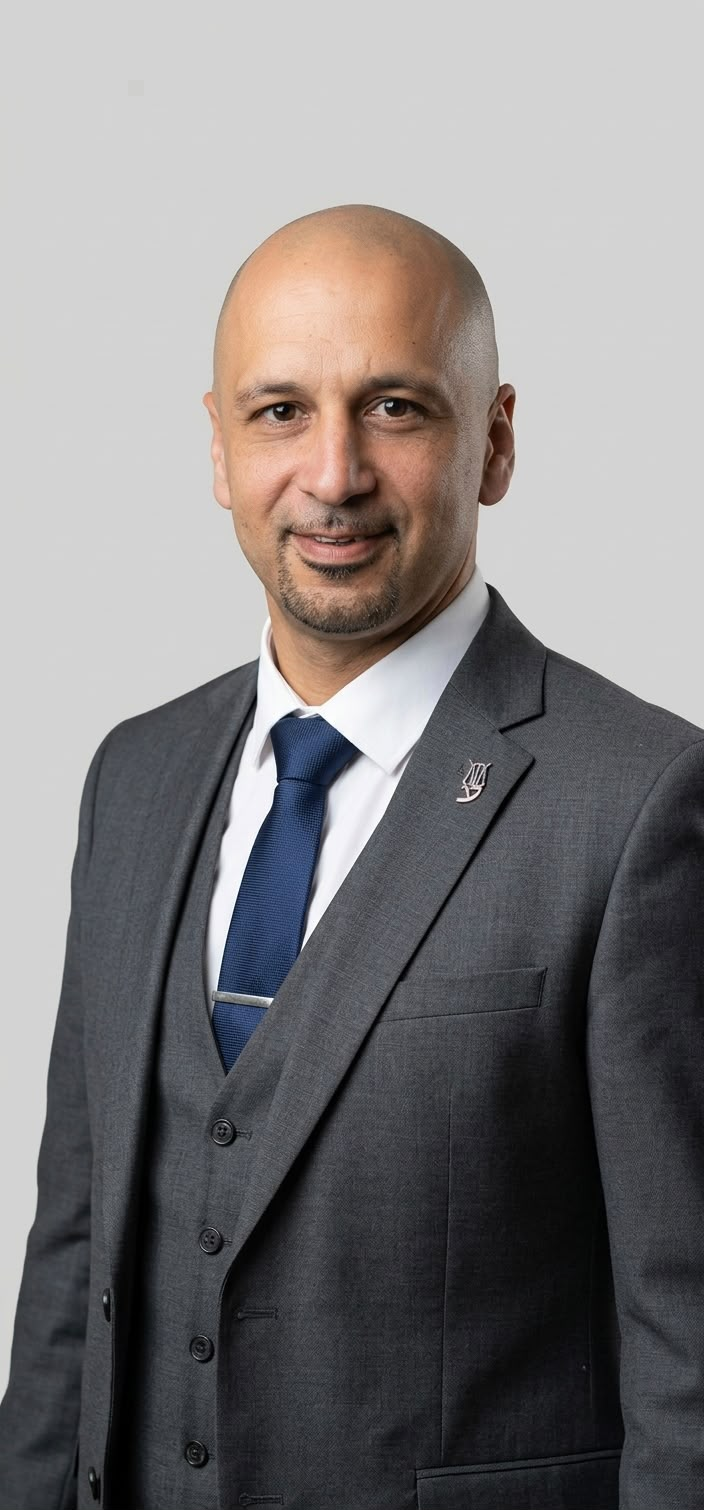
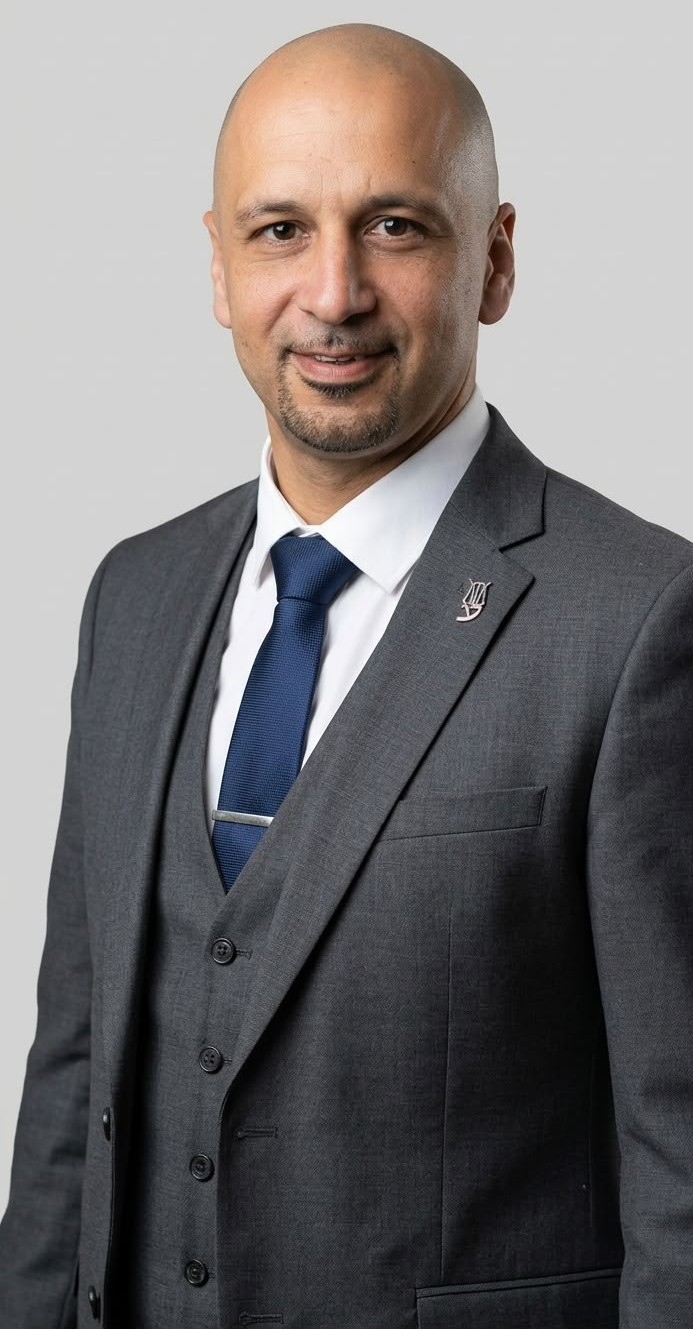
updated

diff --git a/index.html b/index.html
@@ -246,8 +246,11 @@
     display:flex; flex-direction:column; justify-content:flex-end;
     transition:transform .4s var(--ease), box-shadow .4s var(--ease);
     border:1px solid var(--navy);
+    width:100%; font-family:inherit; text-align:right; cursor:pointer; margin:0;
+    -webkit-appearance:none; appearance:none;
   }
   .practice-card:hover{transform:translateY(-6px); box-shadow:var(--shadow-l);}
+  .practice-card:focus-visible{outline:2.5px solid var(--gold); outline-offset:3px;}
   .practice-card.featured{
     grid-column:span 2; grid-row:span 2; min-height:466px;
     background:linear-gradient(150deg, var(--navy) 0%, var(--navy-deep) 100%);
@@ -432,6 +435,56 @@
     transition:transform .3s var(--ease);
   }
   .fab-wa:hover{transform:scale(1.08);}
+
+  /* ============ SERVICE DETAIL MODAL ============ */
+  .modal-overlay{
+    position:fixed; inset:0; z-index:600;
+    background:rgba(10,30,56,0.6); backdrop-filter:blur(4px);
+    display:flex; align-items:center; justify-content:center; padding:24px;
+    opacity:0; visibility:hidden; transition:opacity .3s var(--ease), visibility 0s linear .3s;
+  }
+  .modal-overlay.open{ opacity:1; visibility:visible; transition:opacity .3s var(--ease); }
+  .modal-panel{
+    background:#fff; border-radius:var(--radius-l); width:100%; max-width:660px;
+    max-height:86vh; overflow-y:auto; position:relative;
+    padding:48px 44px 40px; box-shadow:var(--shadow-l);
+    transform:translateY(24px) scale(0.98); transition:transform .35s var(--ease);
+  }
+  .modal-overlay.open .modal-panel{ transform:translateY(0) scale(1); }
+  .modal-close{
+    position:absolute; top:20px; left:20px; width:38px; height:38px; border-radius:50%;
+    border:1px solid var(--stone); background:var(--cream); color:var(--navy);
+    display:flex; align-items:center; justify-content:center; font-size:16px; transition:.25s;
+  }
+  .modal-close:hover{background:var(--navy); color:#fff; border-color:var(--navy);}
+  .modal-icon{
+    width:52px; height:52px; border-radius:12px; background:var(--navy); color:var(--gold-light);
+    display:flex; align-items:center; justify-content:center; margin-bottom:18px;
+  }
+  .modal-panel .eyebrow{margin-bottom:10px;}
+  .modal-panel h3{font-size:clamp(24px,2.6vw,30px); margin-bottom:20px;}
+  .modal-body p{color:var(--ink-soft); font-size:15.5px; margin-bottom:16px;}
+  .modal-body h4{
+    font-family:'Heebo',sans-serif; font-weight:700; font-size:14.5px; color:var(--navy);
+    margin:22px 0 12px;
+  }
+  .modal-body ul{margin-bottom:16px;}
+  .modal-body ul li{
+    position:relative; padding-right:22px; margin-bottom:10px; font-size:15px; color:var(--ink-soft);
+  }
+  .modal-body ul li::before{
+    content:''; position:absolute; right:0; top:8px; width:7px; height:7px; border-radius:50%;
+    background:var(--gold-deep);
+  }
+  .modal-cta{
+    display:flex; gap:12px; flex-wrap:wrap; margin-top:26px; padding-top:26px;
+    border-top:1px solid var(--stone);
+  }
+  @media (max-width:640px){
+    .modal-panel{padding:60px 24px 30px; max-height:90vh;}
+    .modal-cta{flex-direction:column;}
+    .modal-cta .btn{width:100%;}
+  }
 
   @media (max-width: 980px){
     nav.primary{display:none;}
@@ -621,7 +674,7 @@
       <p>עסקאות מקרקעין הן ליבת העשייה שלנו, לצד מגוון שירותים אזרחיים לרגעים החשובים ביותר.</p>
     </div>
     <div class="practice-grid">
-      <a href="#" class="practice-card featured reveal">
+      <button type="button" class="practice-card featured reveal" data-service="realestate">
         <div class="card-art">
           <svg viewBox="0 0 220 180" fill="none" xmlns="http://www.w3.org/2000/svg">
             <rect x="30" y="60" width="160" height="110" rx="2" stroke="#E3CE9E" stroke-width="1.3" opacity="0.85"/>
@@ -634,40 +687,52 @@
           </svg>
         </div>
         <div class="p-ico"><svg width="24" height="24" viewBox="0 0 24 24" fill="none" stroke="currentColor" stroke-width="2"><path d="M21 2l-2 2m-7.61 7.61a5.5 5.5 0 1 1-7.778 7.778 5.5 5.5 0 0 1 7.777-7.777zm0 0L15.5 7.5m0 0l3 3L22 7l-3-3-3.5 3.5zm0 0L19 4"/></svg></div>
-        <h3>מקרקעין</h3>
-        <p>קנייה ומכירה של דירות, עסקאות קרקע, בדיקות טאבו וזכויות, הסכמי שיתוף ופירוק שיתוף, ירושה ומקרקעין, ורישום זכויות, מהצעה ראשונה ועד רישום סופי.</p>
-        <span class="link">לפרטים נוספים על מקרקעין ←</span>
-      </a>
-      <a href="#" class="practice-card reveal">
+        <h3>מקרקעין, תכנון ובנייה</h3>
+        <p>קנייה ומכירה של דירות וקרקעות, בדיקות זכויות וטאבו, היתרי בנייה וחריגות בנייה, הסכמי שיתוף ופירוק שיתוף, ירושה ורישום זכויות, מהצעה ראשונה ועד רישום סופי.</p>
+        <span class="link">לפרטים המלאים על מקרקעין ←</span>
+      </button>
+      <button type="button" class="practice-card reveal" data-service="execution">
         <div class="p-ico"><svg width="20" height="20" viewBox="0 0 24 24" fill="none" stroke="currentColor" stroke-width="2"><rect x="3" y="11" width="18" height="10" rx="1"/><path d="M7 11V7a5 5 0 0 1 10 0v4"/></svg></div>
         <h3>הוצאה לפועל</h3>
-        <p>ייצוג חייבים וזוכים בתיקי הוצאה לפועל.</p>
+        <p>ייצוג זוכים וחייבים: פתיחת תיקים, ביטול עיקולים והגבלות, צווי תשלומים והסדרי חוב.</p>
         <span class="link">למידע נוסף ←</span>
-      </a>
-      <a href="#" class="practice-card reveal">
+      </button>
+      <button type="button" class="practice-card reveal" data-service="bituach">
         <div class="p-ico"><svg width="20" height="20" viewBox="0 0 24 24" fill="none" stroke="currentColor" stroke-width="2"><path d="M12 2L2 7l10 5 10-5-10-5z"/><path d="M2 17l10 5 10-5M2 12l10 5 10-5"/></svg></div>
         <h3>ביטוח לאומי</h3>
-        <p>תביעות וערעורים מול המוסד לביטוח לאומי.</p>
+        <p>תביעות נכות כללית ותאונות עבודה, הכנה לוועדות רפואיות והגשת עררים מול המוסד לביטוח לאומי.</p>
         <span class="link">למידע נוסף ←</span>
-      </a>
-      <a href="#" class="practice-card reveal">
+      </button>
+      <button type="button" class="practice-card reveal" data-service="workaccident">
+        <div class="p-ico"><svg width="20" height="20" viewBox="0 0 24 24" fill="none" stroke="currentColor" stroke-width="2"><rect x="2" y="7" width="20" height="14" rx="2"/><path d="M16 21V5a2 2 0 0 0-2-2h-4a2 2 0 0 0-2 2v16"/></svg></div>
+        <h3>תאונות עבודה</h3>
+        <p>מיצוי זכויות מול הביטוח הלאומי וגורם אחראי לתאונה: דמי פגיעה, קביעת נכות ותביעות פיצויים נוספות.</p>
+        <span class="link">למידע נוסף ←</span>
+      </button>
+      <button type="button" class="practice-card reveal" data-service="malpractice">
         <div class="p-ico"><svg width="20" height="20" viewBox="0 0 24 24" fill="none" stroke="currentColor" stroke-width="2"><path d="M22 12h-4l-3 9L9 3l-3 9H2"/></svg></div>
         <h3>רשלנות רפואית</h3>
         <p>ייצוג רגיש ומקצועי ללקוחות שנפגעו מרשלנות רפואית.</p>
         <span class="link">למידע נוסף ←</span>
-      </a>
-      <a href="#" class="practice-card reveal">
+      </button>
+      <button type="button" class="practice-card reveal" data-service="torts">
         <div class="p-ico"><svg width="20" height="20" viewBox="0 0 24 24" fill="none" stroke="currentColor" stroke-width="2"><path d="M12 9v4M12 17h.01"/><circle cx="12" cy="12" r="10"/></svg></div>
-        <h3>נזיקין</h3>
-        <p>מיצוי זכויות לפיצוי הוגן בגין נזקי גוף ועוולות אזרחיות.</p>
+        <h3>נזיקין ופיצויים</h3>
+        <p>ייצוג נפגעי תאונות דרכים, נפילות ורשלנות, ומיצוי פיצוי מלא מול המזיק וחברות הביטוח.</p>
         <span class="link">למידע נוסף ←</span>
-      </a>
-      <a href="#" class="practice-card reveal">
+      </button>
+      <button type="button" class="practice-card reveal" data-service="contractors">
+        <div class="p-ico"><svg width="20" height="20" viewBox="0 0 24 24" fill="none" stroke="currentColor" stroke-width="2"><rect x="8" y="2" width="8" height="4" rx="1"/><path d="M16 4h2a2 2 0 0 1 2 2v14a2 2 0 0 1-2 2H6a2 2 0 0 1-2-2V6a2 2 0 0 1 2-2h2"/><path d="m9 14 2 2 4-4"/></svg></div>
+        <h3>רישום קבלנים</h3>
+        <p>ליווי בהליכי רישום והעלאת סיווג בפנקס הקבלנים, והתמודדות מול החלטות רשם הקבלנים.</p>
+        <span class="link">למידע נוסף ←</span>
+      </button>
+      <button type="button" class="practice-card reveal" data-service="civil">
         <div class="p-ico"><svg width="20" height="20" viewBox="0 0 24 24" fill="none" stroke="currentColor" stroke-width="2"><rect x="4" y="4" width="16" height="16" rx="2"/><path d="M9 9h6v6H9z"/></svg></div>
-        <h3>דיני חברות</h3>
-        <p>הקמה, חוזים וליווי שוטף לחברות ובעלי עסקים.</p>
+        <h3>משפט אזרחי וחוזים</h3>
+        <p>ניסוח חוזים, תביעות כספיות וייצוג בסכסוכים אזרחיים, מייעוץ מקדים ועד ליטיגציה.</p>
         <span class="link">למידע נוסף ←</span>
-      </a>
+      </button>
     </div>
   </div>
 </section>
@@ -772,6 +837,14 @@
         <button class="faq-q"><span class="qtext">כיצד נפתרים סכסוכי שיתוף בנכס?</span><span class="plus"></span></button>
         <div class="faq-a"><p>רוב עניני השיתוף, בין בני משפחה או שותפים, ניתנים לפתרון באמצעות משא ומתן או חלוקה פורמלית של הנכס. כאשר אין אפשרות להגיע להסכמה, אנו מייצגים את האינטרסים שלכם בגישור או בהליכים משפטיים.</p></div>
       </div>
+      <div class="faq-item reveal">
+        <button class="faq-q"><span class="qtext">נפגעתי בתאונת עבודה, לאילו זכויות אני זכאי?</span><span class="plus"></span></button>
+        <div class="faq-a"><p>בהתאם לנסיבות, ייתכן שתהיו זכאים לדמי פגיעה, לקביעת דרגת נכות מעבודה ולגמלה בהתאם, ולעיתים גם לתביעת פיצויים נוספת נגד גורם אחראי לתאונה. אנו בוחנים את שני המסלולים במקביל כדי למצות עבורכם את מלוא הזכויות.</p></div>
+      </div>
+      <div class="faq-item reveal">
+        <button class="faq-q"><span class="qtext">מה זו ועדה רפואית וכיצד מתכוננים אליה?</span><span class="plus"></span></button>
+        <div class="faq-a"><p>ועדה רפואית קובעת את דרגת הנכות שלכם מול הביטוח הלאומי, וההחלטה משפיעה ישירות על הזכויות הכספיות שלכם. אנו מלווים אתכם בהכנת המסמכים הרפואיים ובהצגת המגבלות בצורה מלאה, ומייצגים גם בהגשת ערר אם ההחלטה אינה משקפת את מצבכם.</p></div>
+      </div>
     </div>
   </div>
 </section>
@@ -819,12 +892,14 @@
         </div>
         <div class="field"><label for="fservice">תחום משפטי</label>
           <select id="fservice" name="service">
-            <option>מקרקעין</option>
+            <option>מקרקעין, תכנון ובנייה</option>
             <option>הוצאה לפועל</option>
             <option>ביטוח לאומי</option>
+            <option>תאונות עבודה</option>
             <option>רשלנות רפואית</option>
-            <option>נזיקין</option>
-            <option>דיני חברות</option>
+            <option>נזיקין ופיצויים</option>
+            <option>רישום קבלנים</option>
+            <option>משפט אזרחי וחוזים</option>
           </select>
         </div>
         <div class="field"><label for="fmsg">הודעה</label><textarea id="fmsg" name="message" placeholder="תארו בקצרה את המצב שלכם..."></textarea></div>
@@ -860,12 +935,14 @@
       <div class="footer-col">
         <h4>תחומי עיסוק</h4>
         <ul>
-          <li><a href="#">מקרקעין</a></li>
-          <li><a href="#">הוצאה לפועל</a></li>
-          <li><a href="#">ביטוח לאומי</a></li>
-          <li><a href="#">רשלנות רפואית</a></li>
-          <li><a href="#">נזיקין</a></li>
-          <li><a href="#">דיני חברות</a></li>
+          <li><a href="#practice">מקרקעין, תכנון ובנייה</a></li>
+          <li><a href="#practice">הוצאה לפועל</a></li>
+          <li><a href="#practice">ביטוח לאומי</a></li>
+          <li><a href="#practice">תאונות עבודה</a></li>
+          <li><a href="#practice">רשלנות רפואית</a></li>
+          <li><a href="#practice">נזיקין ופיצויים</a></li>
+          <li><a href="#practice">רישום קבלנים</a></li>
+          <li><a href="#practice">משפט אזרחי וחוזים</a></li>
         </ul>
       </div>
       <div class="footer-col">
@@ -903,7 +980,162 @@
   <svg width="26" height="26" viewBox="0 0 24 24" fill="currentColor"><path d="M17.6 6.32A7.85 7.85 0 0 0 12.05 4a7.94 7.94 0 0 0-6.9 11.9L4 20l4.2-1.1a7.9 7.9 0 0 0 3.85 1h.01a7.94 7.94 0 0 0 5.54-13.6zM12.06 18.4a6.6 6.6 0 0 1-3.37-.92l-.24-.14-2.5.66.67-2.43-.16-.25a6.6 6.6 0 1 1 5.6 3.08z"/></svg>
 </a>
 
+<!-- ============ SERVICE DETAIL MODAL ============ -->
+<div class="modal-overlay" id="serviceModal" role="presentation">
+  <div class="modal-panel" role="dialog" aria-modal="true" aria-labelledby="modalTitle">
+    <button type="button" class="modal-close" id="modalClose" aria-label="סגירה">✕</button>
+    <div class="modal-icon" id="modalIcon"></div>
+    <span class="eyebrow">תחום עיסוק</span>
+    <h3 id="modalTitle"></h3>
+    <div class="modal-body" id="modalBody"></div>
+    <div class="modal-cta">
+      <a href="https://wa.me/972505200261" class="btn btn-whatsapp" target="_blank" rel="noopener">
+        <svg width="16" height="16" viewBox="0 0 24 24" fill="currentColor"><path d="M17.6 6.32A7.85 7.85 0 0 0 12.05 4a7.94 7.94 0 0 0-6.9 11.9L4 20l4.2-1.1a7.9 7.9 0 0 0 3.85 1h.01a7.94 7.94 0 0 0 5.54-13.6z"/></svg>
+        וואטסאפ בנושא זה
+      </a>
+      <a href="#contact" class="btn btn-navy" id="modalContactLink">קביעת פגישת ייעוץ</a>
+    </div>
+  </div>
+</div>
+
 <script>
+  // Service detail content (populates the modal)
+  const serviceDetails = {
+    realestate: `
+      <p>תחום המקרקעין, התכנון והבנייה הוא אחד התחומים המורכבים והמשמעותיים ביותר במשפט האזרחי. עסקאות נדל"ן, ייזום, היתרי בנייה, שינויי ייעוד וסכסוכים קנייניים כרוכים בסוגיות משפטיות, תכנוניות וכלכליות, ולכן דורשים בחינה מקצועית וליווי צמוד כבר בשלב מוקדם.</p>
+      <h4>הליווי המשפטי שלנו כולל</h4>
+      <ul>
+        <li>בדיקת מצב הזכויות והמצב התכנוני של הנכס</li>
+        <li>בדיקת היתרי בנייה, טופסי אכלוס ואיתור חריגות בנייה</li>
+        <li>בחינת היטלי השבחה וחיובי מס מקרקעין</li>
+        <li>ניסוח הסכמי מכר, מתנה ושיתוף וניהול משא ומתן</li>
+        <li>פירוק שיתוף במקרקעין ורישום זכויות בטאבו וברשות מקרקעי ישראל</li>
+        <li>ליווי בהוצאת היתרי בנייה וייצוג מול ועדות התכנון המקומיות והמחוזיות</li>
+      </ul>
+      <p>המשרד פועל על בסיס חוק המקרקעין, חוק המכר (דירות) וחוק התכנון והבנייה, ומלווה כל תיק מהבדיקה הראשונית ועד לרישום הסופי.</p>
+    `,
+    execution: `
+      <p>מערכת ההוצאה לפועל נועדה לאפשר אכיפה יעילה של פסקי דין, שטרות, שיקים וחיובים כספיים, ולצד זאת מבטיחה גם את זכויותיהם של חייבים במסגרת הסדרים והליכים הקבועים בחוק.</p>
+      <h4>השירותים שלנו כוללים</h4>
+      <ul>
+        <li>פתיחת תיקי הוצאה לפועל וגביית חובות מכוח פסקי דין</li>
+        <li>ביצוע שטרות ושיקים והגשת התנגדות לביצוע שטר</li>
+        <li>הגשת התנגדות לתביעה על סכום קצוב ואיחוד תיקים</li>
+        <li>ביטול או צמצום עיקולים והגבלות על חשבון בנק, רישיון נהיגה ויציאה מהארץ</li>
+        <li>בקשות בטענת "פרעתי" וצווי תשלומים</li>
+        <li>ניהול משא ומתן להסדרי חוב וייצוג בפני רשמי ההוצאה לפועל</li>
+      </ul>
+      <p>אנו מייצגים זוכים החל מפתיחת התיק ועד לגביית החוב בפועל, וכן חייבים המבקשים להתמודד עם החוב בדרך המשפטית הנכונה.</p>
+    `,
+    bituach: `
+      <p>המוסד לביטוח לאומי מעניק זכויות סוציאליות שונות במצבים שבהם נפגעה יכולתו של אדם לעבוד, להתפרנס או לנהל אורח חיים עצמאי. הגשת תביעה, הכנת מסמכים רפואיים והופעה בפני ועדות רפואיות דורשות היכרות עם הדין וההליך.</p>
+      <h4>אנו מלווים בתחומים הבאים</h4>
+      <ul>
+        <li>תביעות נכות כללית ובחינת הזכאות בהתאם לתנאים הקבועים בחוק</li>
+        <li>נפגעי עבודה ותאונות עבודה מול המוסד לביטוח לאומי</li>
+        <li>הכנה לוועדות רפואיות והצגת המצב הרפואי והתפקודי</li>
+        <li>הגשת עררים וערעורים על החלטות שגויות או חלקיות</li>
+        <li>ניידות, סיעוד, שירותים מיוחדים וזכויות נפגעי פעולות איבה</li>
+      </ul>
+      <p>ההליך מבוסס על חוק הביטוח הלאומי ותקנותיו, וטיפול נכון ומקצועי עשוי להשפיע באופן משמעותי על מיצוי הזכויות המגיעות לכם.</p>
+    `,
+    workaccident: `
+      <p>תאונת עבודה עלולה לשנות חיים בתוך זמן קצר ולהשפיע על הבריאות, היכולת לעבוד וההכנסה. עובד שנפגע במהלך עבודתו או עקב עבודתו עשוי להיות זכאי לזכויות מול המוסד לביטוח לאומי, ולעיתים גם לפיצוי נוסף מגורם אחראי.</p>
+      <h4>מה נחשב לתאונת עבודה</h4>
+      <ul>
+        <li>פגיעה שאירעה במהלך ביצוע העבודה, או בדרך אליה וממנה</li>
+        <li>פגיעה עקב תנאי עבודה מסוכנים או שימוש בציוד ומכונות</li>
+        <li>פגיעה מתמשכת עקב מאמץ חוזר (מיקרוטראומה) או מחלת מקצוע מוכרת</li>
+      </ul>
+      <h4>זכויות אפשריות לנפגע</h4>
+      <ul>
+        <li>דמי פגיעה לתקופת אי הכושר הראשונית</li>
+        <li>קביעת דרגת נכות מעבודה באמצעות ועדה רפואית</li>
+        <li>מענק או קצבת נכות בהתאם לאחוזי הנכות שייקבעו</li>
+        <li>תביעה נזיקית נוספת נגד מעסיק, קבלן או גורם אחראי אחר</li>
+      </ul>
+      <p>אנו בוחנים במקביל את שני המסלולים האפשריים, מול הביטוח הלאומי ומול הגורם האחראי, כדי למצות עבורכם את מלוא הזכויות.</p>
+    `,
+    malpractice: `
+      <p>כאשר נגרם נזק עקב טיפול רפואי רשלני, בין אם באבחון, בטיפול או במעקב, ייתכן שקמה לנפגע זכות לפיצוי בגין הנזק שנגרם לו ולבני משפחתו.</p>
+      <h4>הליווי שלנו כולל</h4>
+      <ul>
+        <li>בדיקה מעמיקה של התיק הרפואי ואיסוף חוות דעת מקצועיות</li>
+        <li>בחינת קיומה של רשלנות והקשר הסיבתי בין הטיפול לנזק</li>
+        <li>הערכת היקף הנזק והפיצוי המגיע</li>
+        <li>ניהול משא ומתן מול חברות הביטוח והגורמים הרפואיים</li>
+        <li>ייצוג בהליכים משפטיים במקרה הצורך</li>
+      </ul>
+      <p>מדובר בתיקים מורכבים ורגישים במיוחד, ואנו מקפידים על ליווי אישי ותומך לצד עבודה משפטית יסודית ומדויקת.</p>
+    `,
+    torts: `
+      <p>דיני הנזיקין עוסקים באחריות של אדם, גוף או רשות לנזק שנגרם לאחר. כאשר אדם נפגע עקב מעשה או מחדל של גורם אחר, עשויה לקום לו זכות לפיצוי בהתאם לנסיבות המקרה ולהוראות הדין.</p>
+      <h4>אנו מטפלים במגוון מקרים, ובהם</h4>
+      <ul>
+        <li>תאונות דרכים, גם כשיש מחלוקת על נסיבות התאונה או היקף הנזק</li>
+        <li>נפילות ופגיעות במקומות ציבוריים עקב מפגע או תחזוקה לקויה</li>
+        <li>רשלנות ואחריות מקצועית של בעל מקצוע או גוף אחר</li>
+        <li>תביעות נגד חברות ביטוח שדחו תביעה או צמצמו את הפיצוי</li>
+      </ul>
+      <h4>פיצויים אפשריים</h4>
+      <p>בהתאם לנסיבות המקרה, ניתן לבחון זכאות לפיצוי בגין כאב וסבל, הפסדי שכר בעבר ובעתיד, פגיעה בכושר ההשתכרות, הוצאות רפואיות ושיקומיות, עזרת צד שלישי ונזקי רכוש.</p>
+    `,
+    contractors: `
+      <p>רישום בפנקס הקבלנים הוא תנאי הכרחי לביצוע עבודות מסוימות בענף הבנייה. הרישום מעניק לקבלן הכרה רשמית ומאפשר לו לבצע עבודות בהתאם לסיווגו ולהיקף הכספי שנקבע לו.</p>
+      <h4>אנו מלווים בהליכים הבאים</h4>
+      <ul>
+        <li>הגשת בקשה לרישום קבלן חדש בפנקס הקבלנים</li>
+        <li>שינוי, הרחבה או העלאה של סיווג קבלני קיים</li>
+        <li>השלמת מסמכים וייצוג מול רשם הקבלנים</li>
+        <li>טיפול בסירוב לרישום או בדרישה להשלמת נתונים</li>
+        <li>הגשת השגות ועררים על החלטות רשם הקבלנים</li>
+      </ul>
+      <p>בקשה שאינה ערוכה כנדרש עלולה לגרום לעיכובים ואף לדחייה, ולכן ליווי משפטי מסודר כבר מתחילת התהליך חוסך זמן וכסף.</p>
+    `,
+    civil: `
+      <p>המשפט האזרחי מהווה את התשתית המשפטית להסדרת מערכות היחסים, החובות והזכויות בין אדם לחברו, בין עסקים ובין פרטים לתאגידים. תחום זה נועד להבטיח כיבוד הסכמים, הגנה על זכויות קנייניות ומענה משפטי הוגן ויעיל.</p>
+      <h4>הליווי שלנו כולל</h4>
+      <ul>
+        <li>ניסוח ועריכת חוזים הבונים הסכמים צופי פני עתיד ומגנים על האינטרסים שלכם</li>
+        <li>ניהול תביעות כספיות וסכסוכים אזרחיים בבתי המשפט, בבוררות או בגישור</li>
+        <li>ייעוץ ואסטרטגיה קדם משפטית, כולל בחינת הראיות והערכת סיכויי התביעה</li>
+      </ul>
+      <p>במשפט האזרחי, ללוחות הזמנים כמו תקופת ההתיישנות ומועדי הגשת כתבי טענות יש משמעות מכרעת על תוצאת ההליך, ולכן חשוב לפנות לייעוץ מוקדם ככל האפשר.</p>
+    `
+  };
+
+  const serviceModal = document.getElementById('serviceModal');
+  const modalPanel = serviceModal.querySelector('.modal-panel');
+  const modalIcon = document.getElementById('modalIcon');
+  const modalTitle = document.getElementById('modalTitle');
+  const modalBody = document.getElementById('modalBody');
+  let lastFocusedCard = null;
+
+  function openServiceModal(card){
+    const key = card.dataset.service;
+    if(!serviceDetails[key]) return;
+    lastFocusedCard = card;
+    modalIcon.innerHTML = card.querySelector('.p-ico').innerHTML;
+    modalTitle.textContent = card.querySelector('h3').textContent;
+    modalBody.innerHTML = serviceDetails[key];
+    serviceModal.classList.add('open');
+    document.body.style.overflow = 'hidden';
+    document.getElementById('modalClose').focus();
+  }
+  function closeServiceModal(){
+    serviceModal.classList.remove('open');
+    document.body.style.overflow = '';
+    if(lastFocusedCard) lastFocusedCard.focus();
+  }
+
+  document.querySelectorAll('.practice-card').forEach(card=>{
+    card.addEventListener('click', ()=> openServiceModal(card));
+  });
+  document.getElementById('modalClose').addEventListener('click', closeServiceModal);
+  document.getElementById('modalContactLink').addEventListener('click', closeServiceModal);
+  serviceModal.addEventListener('click', (e)=>{ if(e.target === serviceModal) closeServiceModal(); });
+  document.addEventListener('keydown', (e)=>{ if(e.key === 'Escape' && serviceModal.classList.contains('open')) closeServiceModal(); });
+
   // Reveal on scroll
   const revealEls = document.querySelectorAll('.reveal');
   const io = new IntersectionObserver((entries)=>{